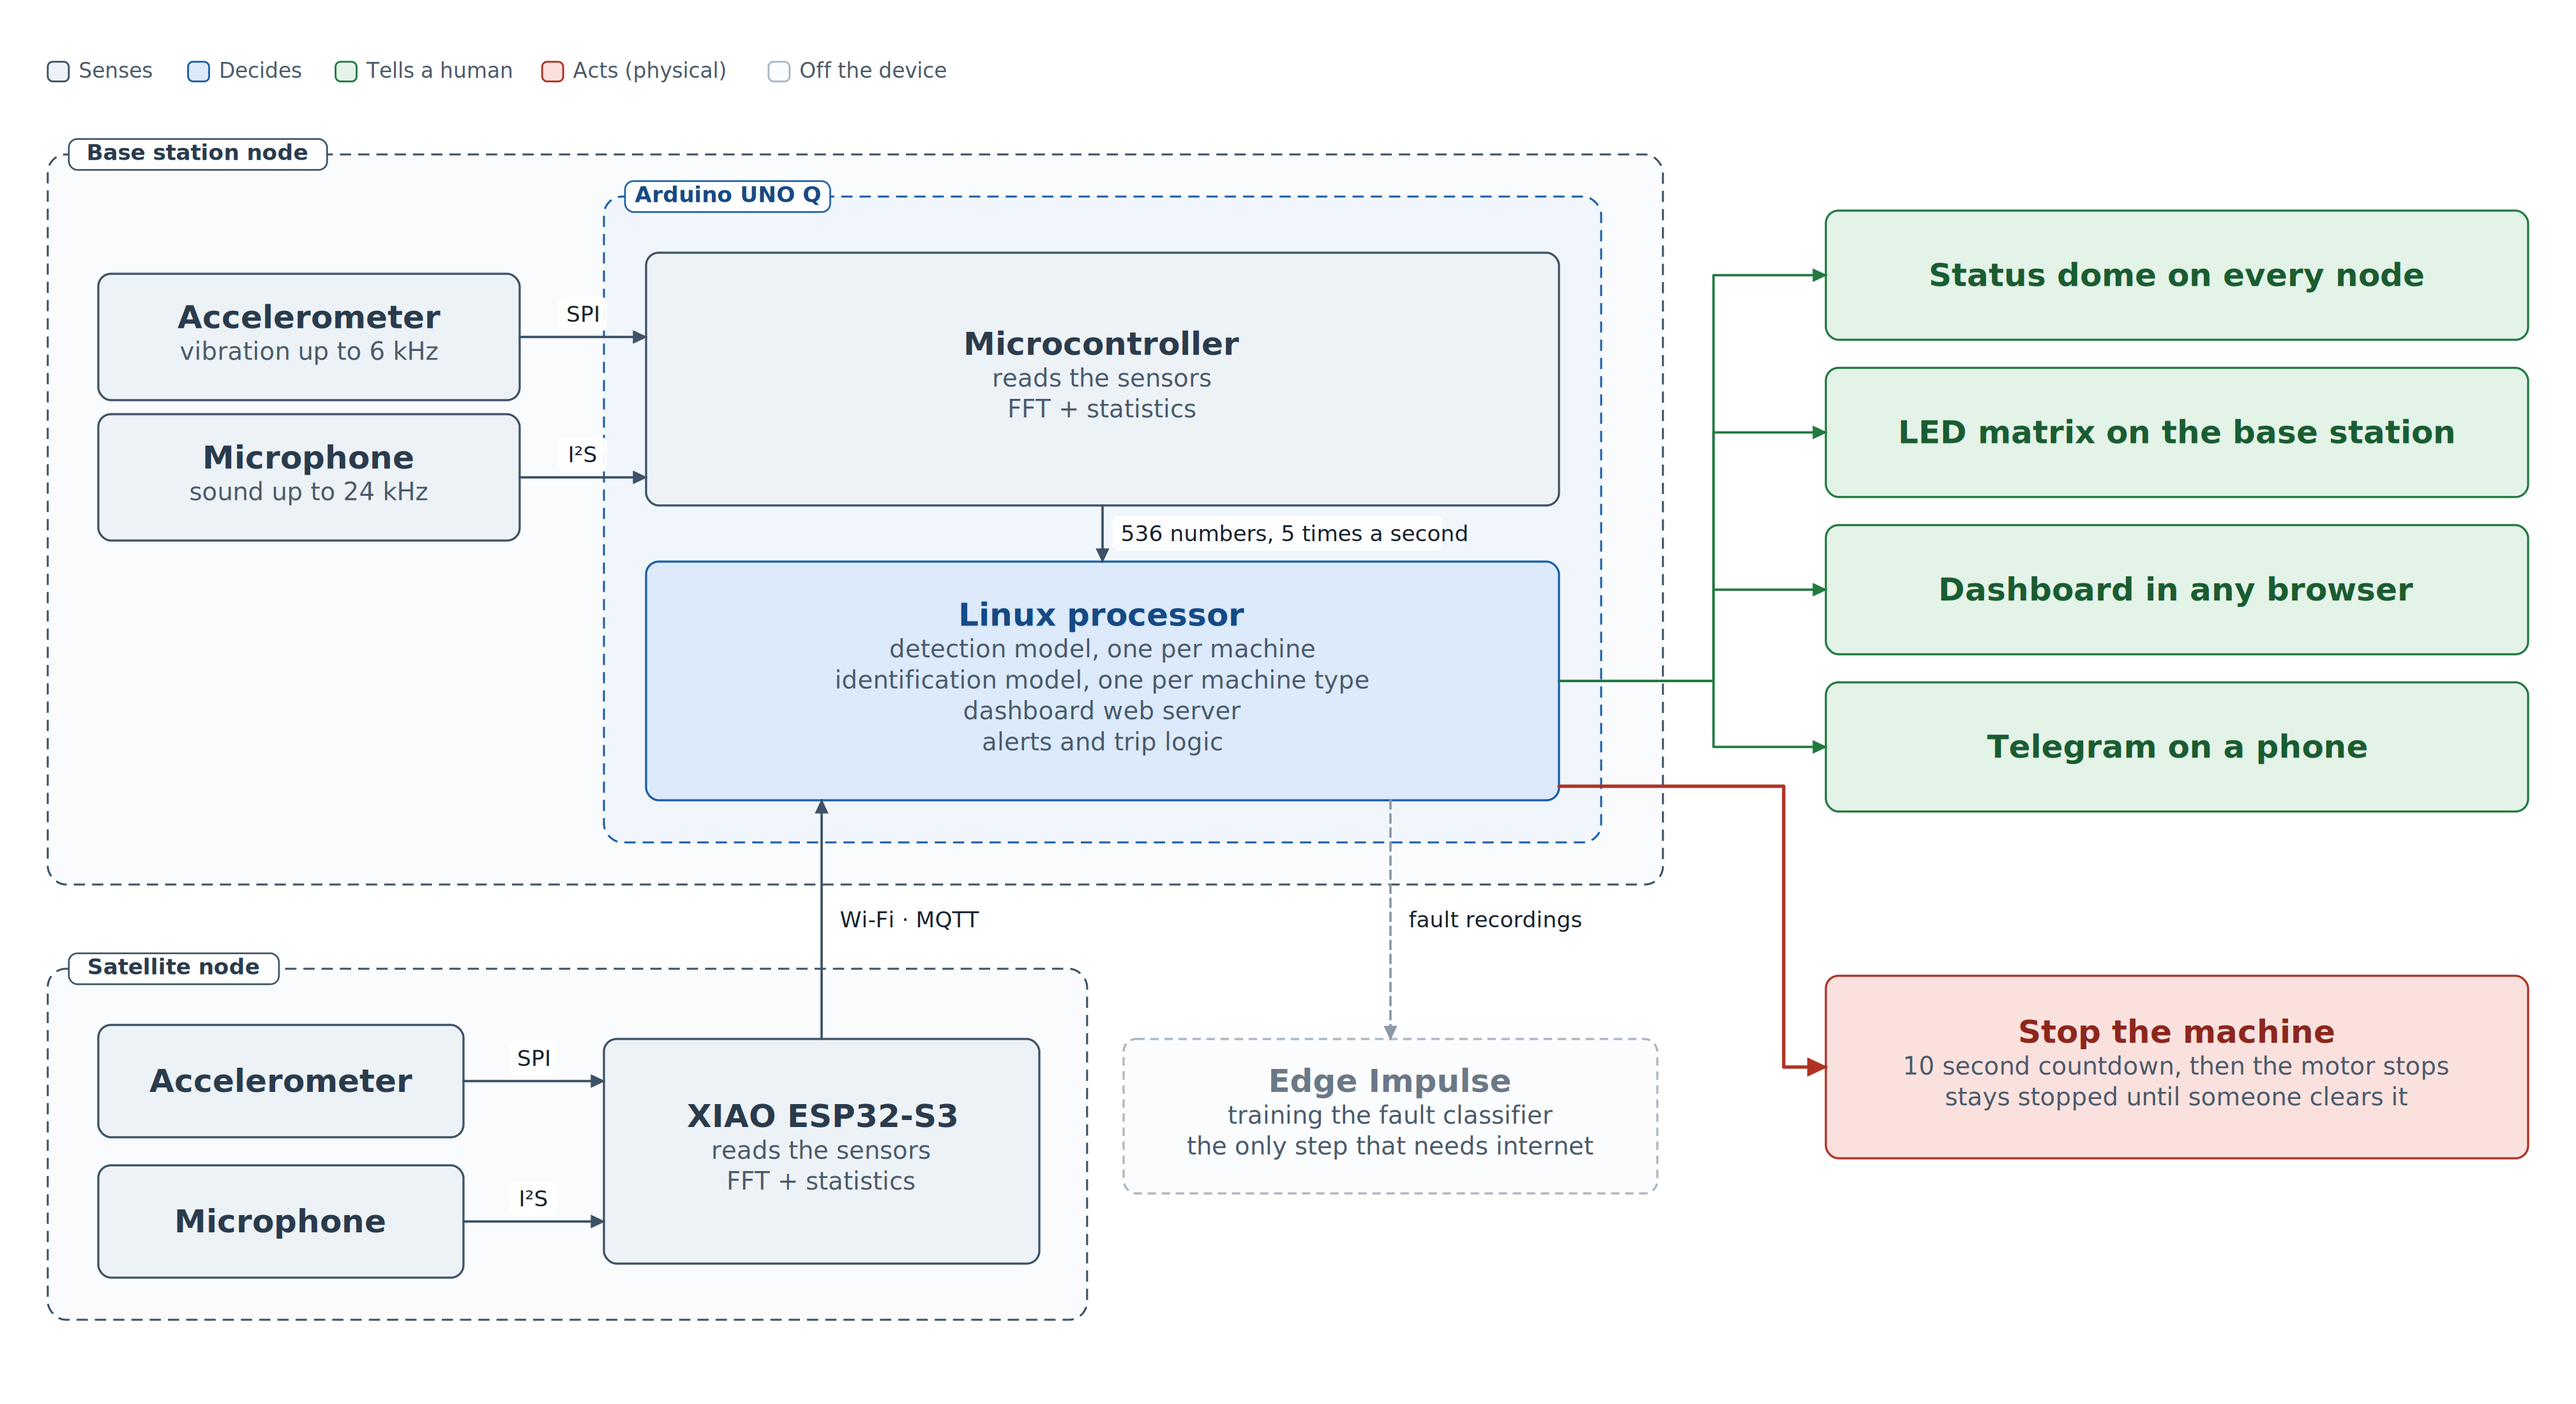
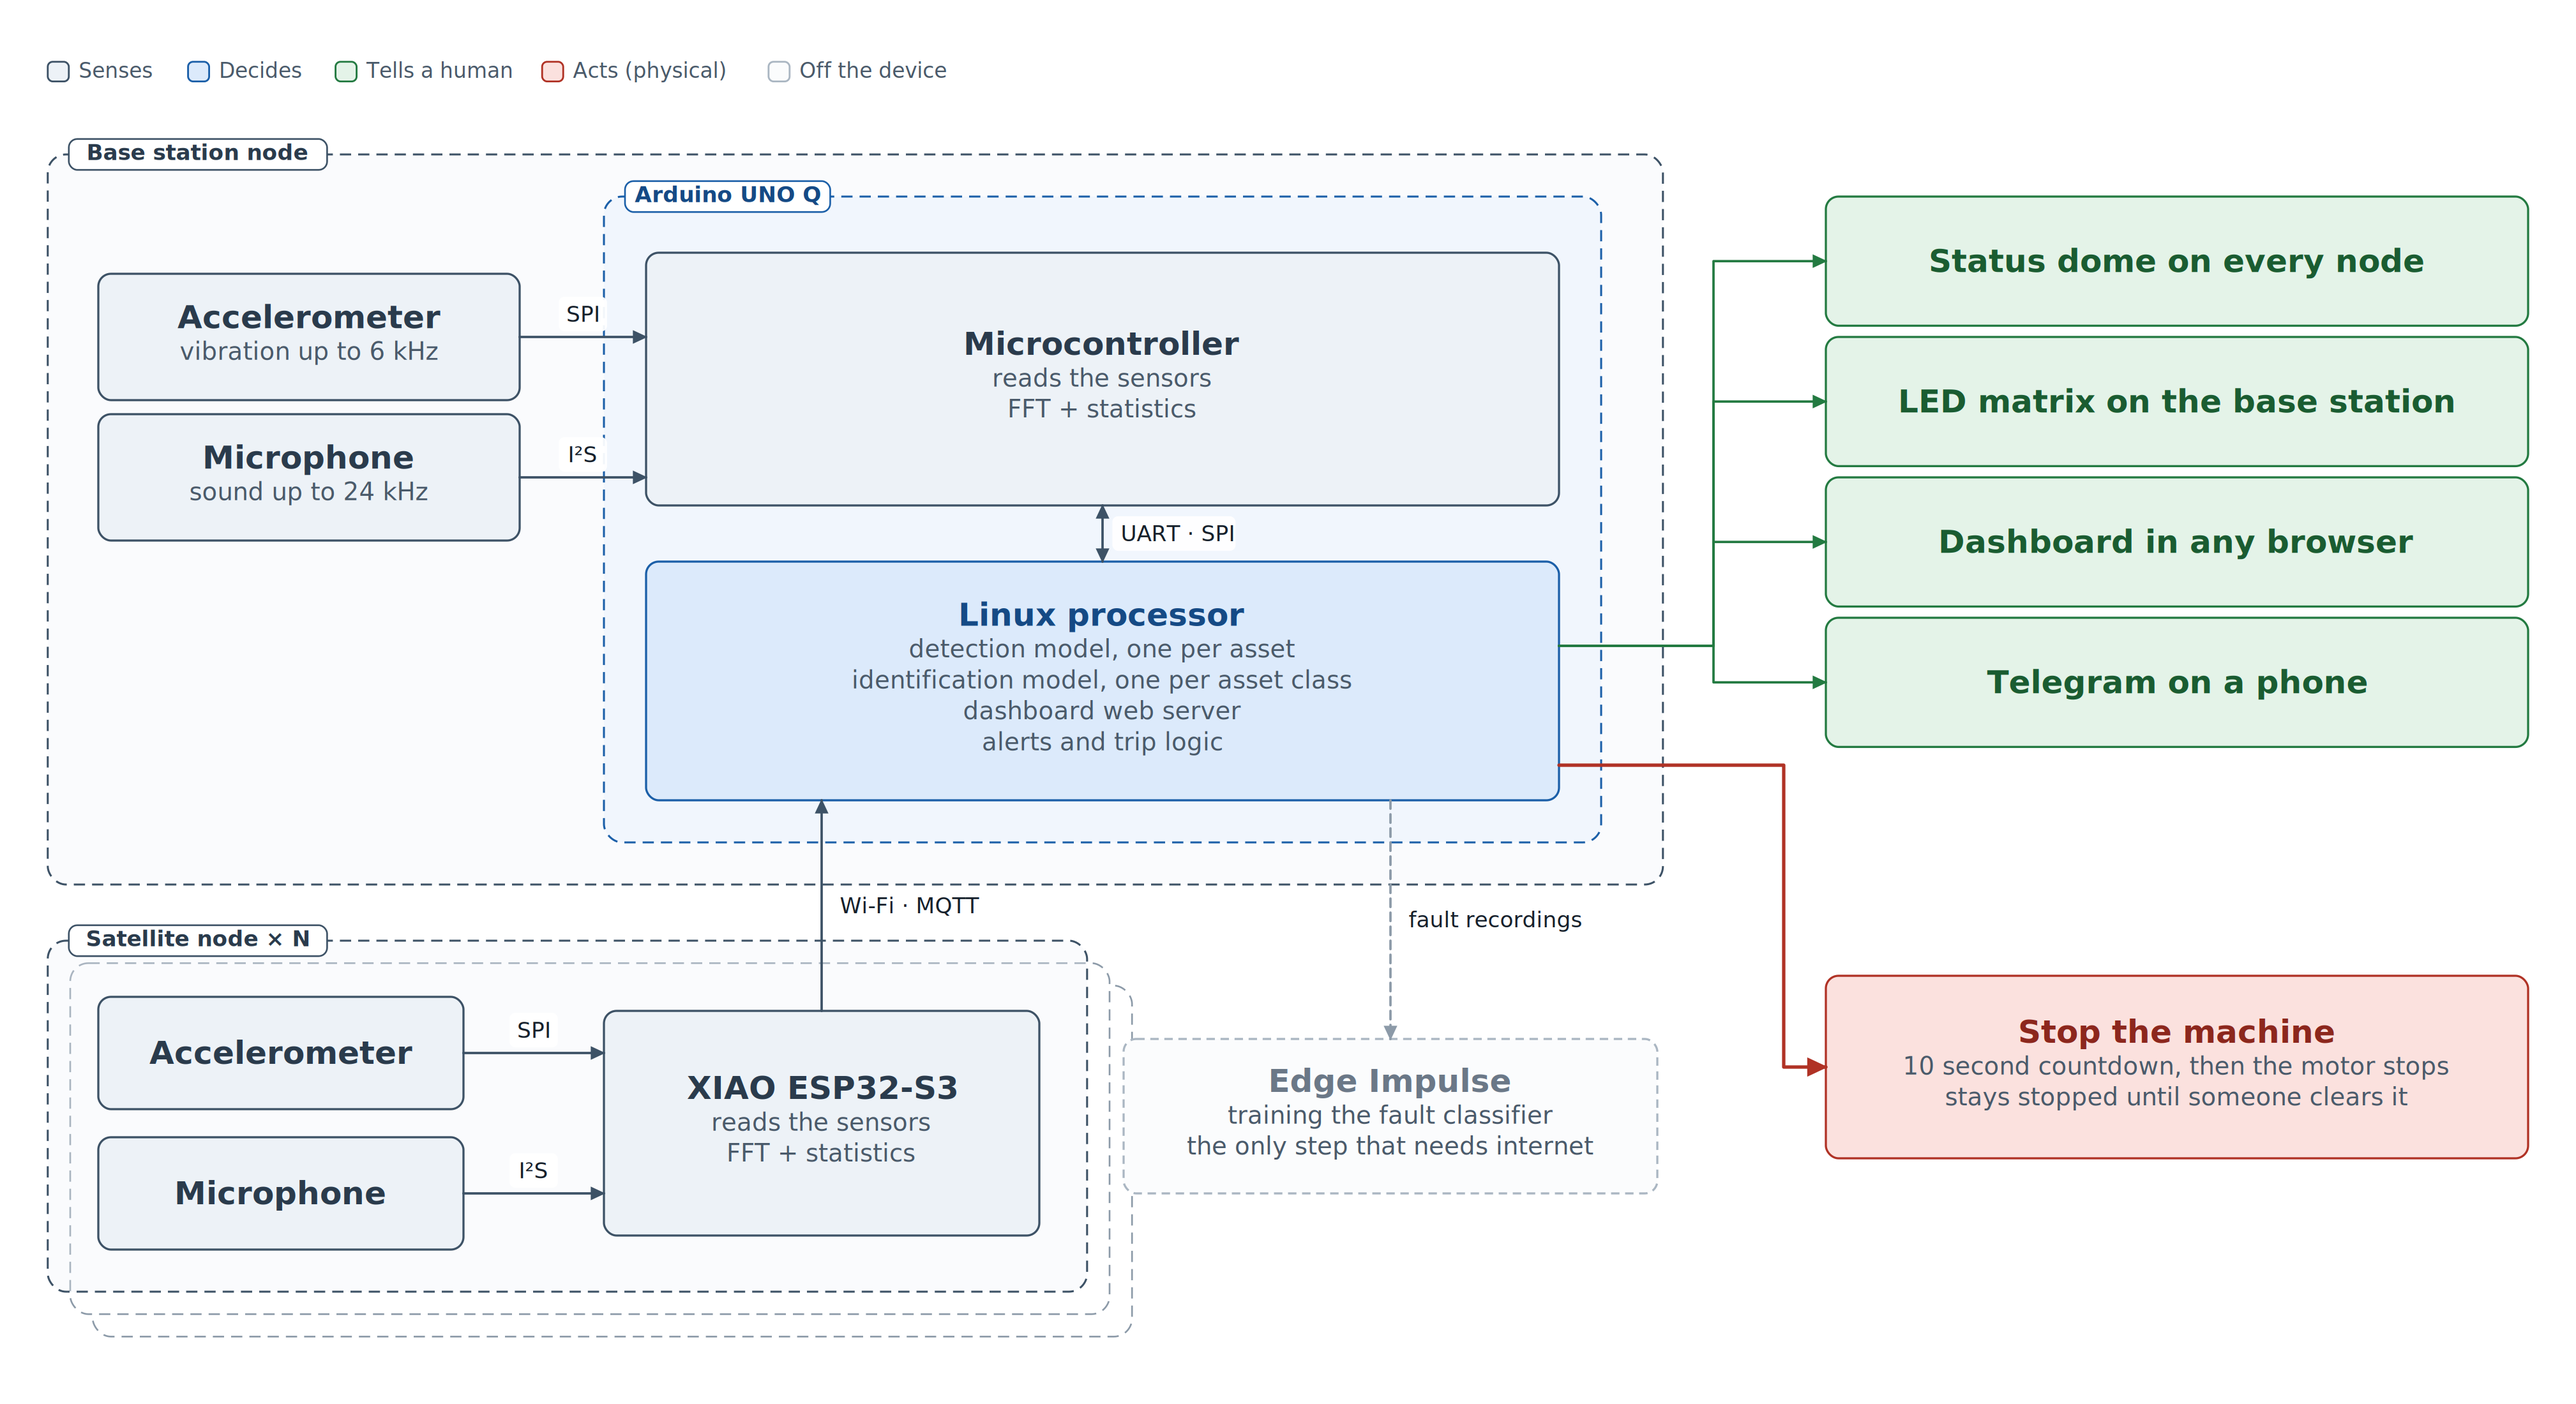
diagrams: 16-system-overview, asset wording, real MCU link, N satellites
Says 'one per asset' and 'one per asset class' on the two model lines,
labels the inter-processor link UART and SPI instead of quoting the frame
size and rate, stacks the satellite group to show N of them, and moves the
stop arrow off the Linux box's corner and clear of the output bus.

diff --git a/report/diagrams/gen/d16_system_overview.py b/report/diagrams/gen/d16_system_overview.py
@@ -38,52 +38,55 @@ c.box(460, 180, 650, 180, "Microcontroller",
       ["reads the sensors", "FFT + statistics"],
       role="sense", title_size=TITLE, body_size=BODY)
 c.box(460, 400, 650, 170, "Linux processor",
-      ["detection model, one per machine",
-       "identification model, one per machine type",
+      ["detection model, one per asset",
+       "identification model, one per asset class",
        "dashboard web server", "alerts and trip logic"],
       role="brain", title_size=TITLE, body_size=BODY)
 
 c.link([(370, 240), (460, 240)], label="SPI", label_size=12)
 c.link([(370, 340), (460, 340)], label="I²S", label_size=12)
-c.link([(785, 360), (785, 400)], label="536 numbers, 5 times a second",
-       label_size=12)
+c.link([(785, 360), (785, 400)], label="UART · SPI", label_size=12, both=True)
 
 # --------------------------------------------------------- satellite node
 # Same two sensors, a different board. The only thing that changes is how the
 # numbers reach the Linux processor.
-c.group(34, 690, 740, 250, "Satellite node", role="sense")
+for off in (32, 16):
+    c.raw(f'<rect x="{34 + off}" y="{670 + off}" width="740" height="250" rx="13" '
+          f'fill="#FFFFFF" stroke="#8C9AA8" stroke-width="1.2" '
+          f'stroke-dasharray="8,5"/>')
+c.group(34, 670, 740, 250, "Satellite node × N", role="sense")
 
-c.box(70, 730, 260, 80, "Accelerometer", role="sense", title_size=TITLE)
-c.box(70, 830, 260, 80, "Microphone", role="sense", title_size=TITLE)
-c.box(430, 740, 310, 160, "XIAO ESP32-S3",
+c.box(70, 710, 260, 80, "Accelerometer", role="sense", title_size=TITLE)
+c.box(70, 810, 260, 80, "Microphone", role="sense", title_size=TITLE)
+c.box(430, 720, 310, 160, "XIAO ESP32-S3",
       ["reads the sensors", "FFT + statistics"],
       role="sense", title_size=TITLE, body_size=BODY)
 
-c.link([(330, 770), (430, 770)], label="SPI", label_size=12)
-c.link([(330, 870), (430, 870)], label="I²S", label_size=12)
-c.link([(585, 740), (585, 570)], label="Wi-Fi · MQTT", label_size=12)
+c.link([(330, 750), (430, 750)], label="SPI", label_size=12)
+c.link([(330, 850), (430, 850)], label="I²S", label_size=12)
+c.link([(585, 720), (585, 570)], label="Wi-Fi · MQTT", label_size=12)
 
 # ------------------------------------------------------- tells and action
-c.box(1300, 150, 500, 92, "Status dome on every node", role="tell",
+c.box(1300, 140, 500, 92, "Status dome on every node", role="tell",
       title_size=TITLE)
-c.box(1300, 262, 500, 92, "LED matrix on the base station", role="tell",
+c.box(1300, 240, 500, 92, "LED matrix on the base station", role="tell",
       title_size=TITLE)
-c.box(1300, 374, 500, 92, "Dashboard in any browser", role="tell",
+c.box(1300, 340, 500, 92, "Dashboard in any browser", role="tell",
       title_size=TITLE)
-c.box(1300, 486, 500, 92, "Telegram on a phone", role="tell",
+c.box(1300, 440, 500, 92, "Telegram on a phone", role="tell",
       title_size=TITLE)
 
 # The four outputs share one exit point and one riser, so they read as a
 # single fan-out. The stop gets its own riser lower down, clear of that bus.
-for entry in (196, 308, 420, 532):
-    c.link([(1110, 485), (1220, 485), (1220, entry), (1300, entry)],
+for entry in (186, 286, 386, 486):
+    c.link([(1110, 460), (1220, 460), (1220, entry), (1300, entry)],
            kind="arrowTell")
 
 c.box(1300, 695, 500, 130, "Stop the machine",
       ["10 second countdown, then the motor stops",
        "stays stopped until someone clears it"],
       role="act", title_size=TITLE, body_size=BODY)
-c.link([(1110, 560), (1270, 560), (1270, 760), (1300, 760)],
+c.link([(1110, 545), (1270, 545), (1270, 760), (1300, 760)],
        kind="arrowAct", width=2.4)
 
 # ----------------------------------------------------------- the one link
